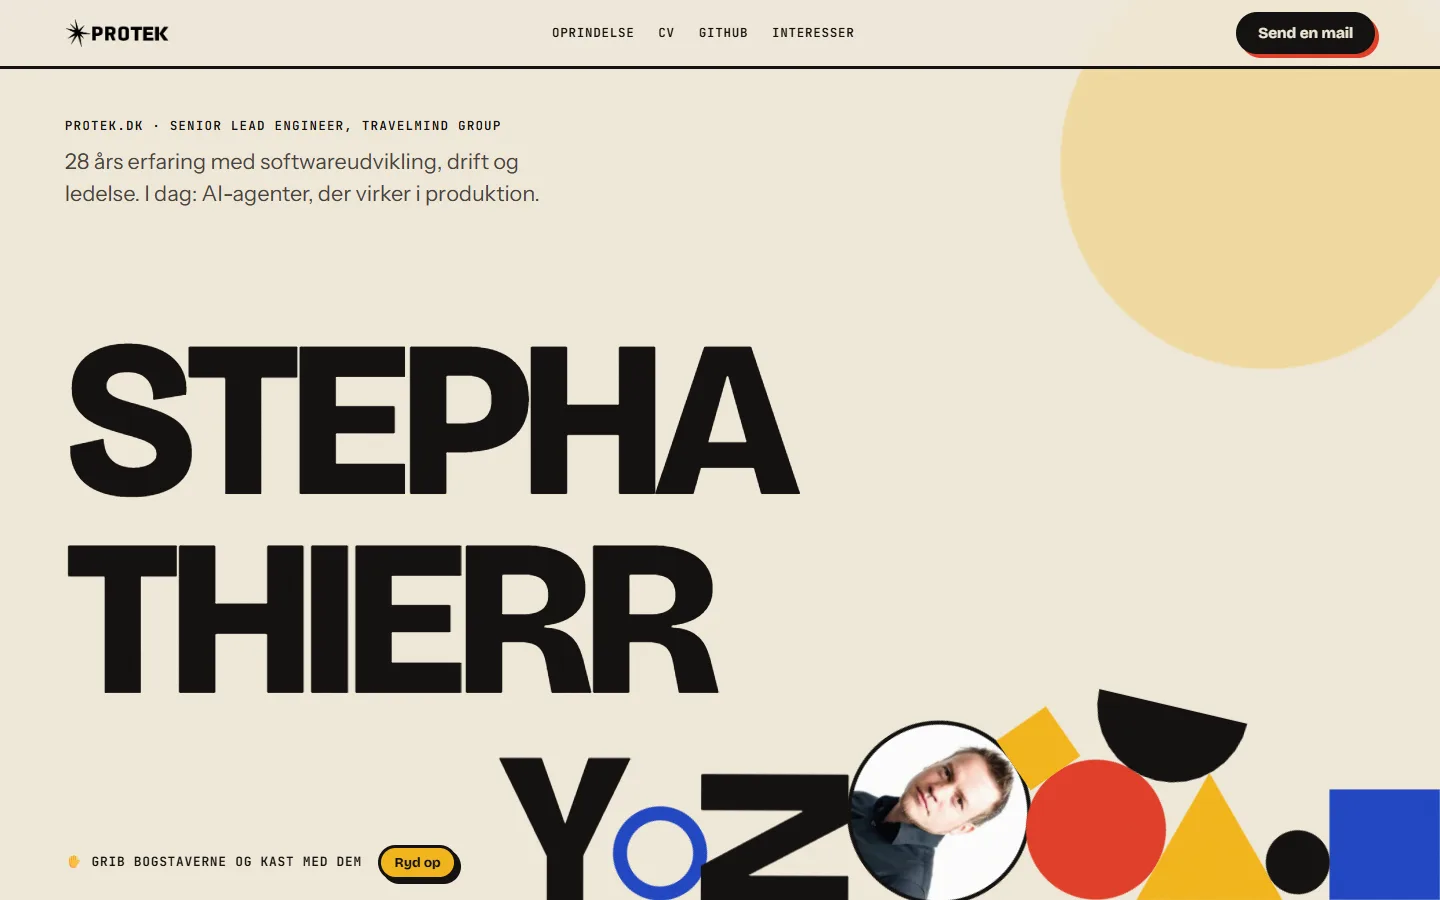
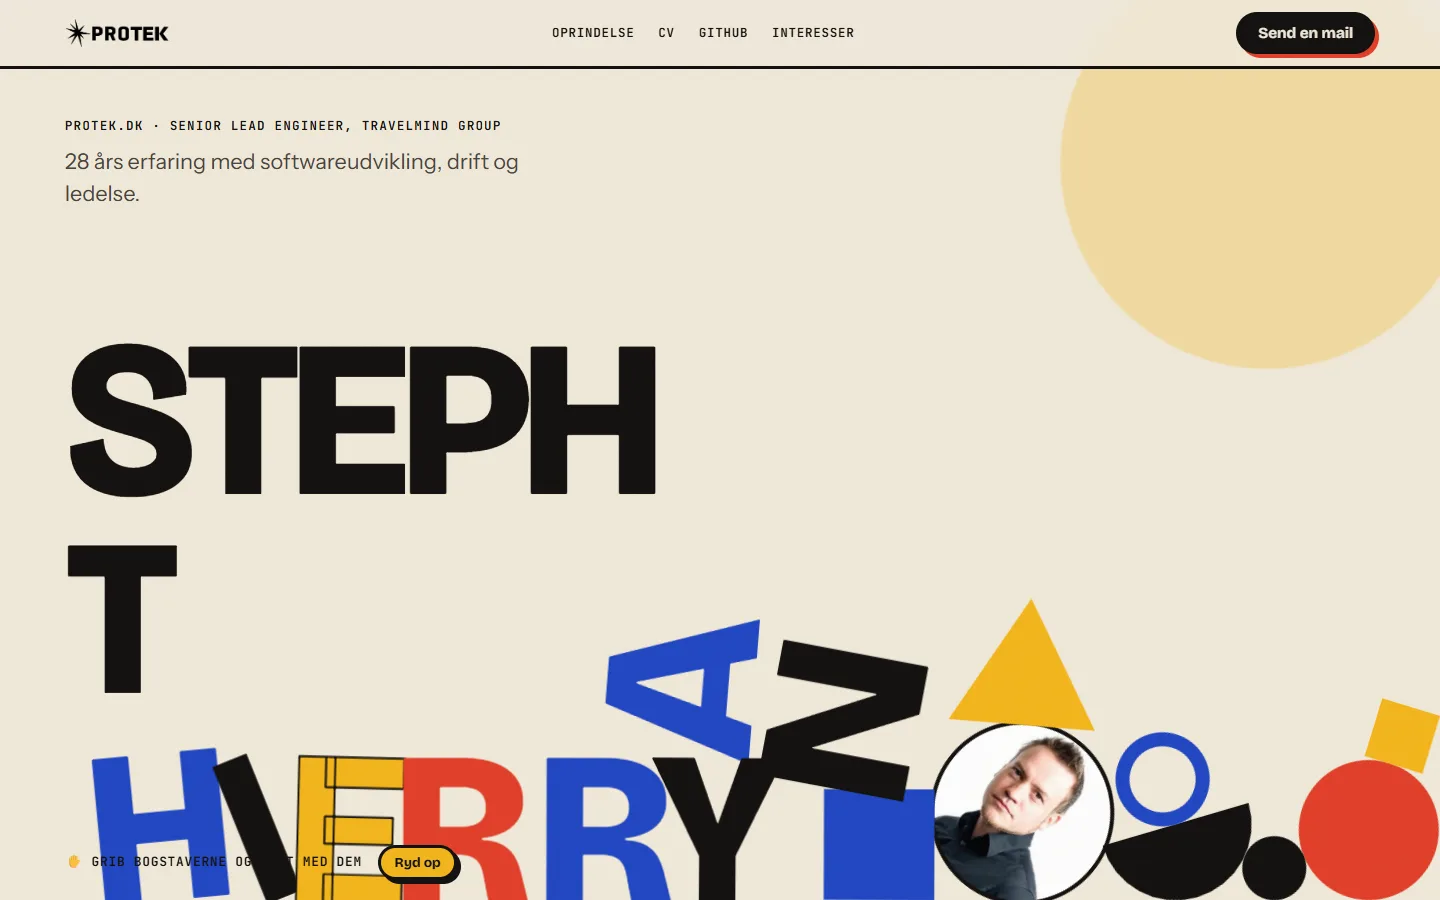
Designs: overskriften 'Underholdende designs' og nye skaermbilleder
Centreret overskrift med undertitel foer de tre sidste designs (Bauhaus,
Tidende, Ebru). Skaermbillederne er taget om, saa de viser de rettede tekster.

Changed region(s): [[0.0625, 0.5911, 1.0, 1.0], [0.4375, 0.3733, 0.5625, 0.56], [0.125, 0.1867, 0.375, 0.2489]]

diff --git a/site/src/style.css b/site/src/style.css
@@ -322,7 +322,9 @@ main { position: relative; z-index: 5; }
   backdrop-filter: blur(14px); -webkit-backdrop-filter: blur(14px);
   transform-style: preserve-3d; transition: box-shadow 0.5s var(--ease);
 }
-.design:nth-child(-n+2) { grid-column: span 3; }
+.design-grid:not(.design-grid--fun) .design { grid-column: span 3; }
+.designs__fun { display: grid; justify-items: center; gap: 0.6rem; text-align: center; margin-top: clamp(1rem, 4vh, 3rem); }
+.designs__fun p { margin: 0; font: 400 0.82rem/1.5 var(--f-mono); letter-spacing: 0.06em; color: var(--ink-soft); }
 .design > :not(.shot) { margin-inline: 0.5rem; }
 .design .shot { margin-bottom: 0.4rem; }
 .design h3 { margin: 0; font: 700 1.5rem/1.1 var(--f-display); letter-spacing: -0.01em; }
@@ -338,8 +340,8 @@ main { position: relative; z-index: 5; }
 .design--here { box-shadow: inset 0 0 0 1px rgb(124 240 194 / 0.4); }
 
 @media (max-width: 1100px) {
-  .design, .design:nth-child(-n+2) { grid-column: span 3; }
-  .design:last-child { grid-column: 2 / span 4; }
+  .design-grid .design { grid-column: span 3; }
+  .design-grid--fun .design:last-child { grid-column: 2 / span 4; }
 }
 @media (max-width: 860px) {
   .sec.designs { padding-top: 48vh; padding-bottom: 6rem; }
@@ -347,7 +349,7 @@ main { position: relative; z-index: 5; }
   .clock__row { grid-template-columns: 5.5rem minmax(0, 1fr) 3.8rem; gap: 0.7rem; }
   .origin-card { grid-template-columns: 1fr; }
   .design-grid { grid-template-columns: 1fr; }
-  .design, .design:nth-child(-n+2), .design:last-child { grid-column: auto; }
+  .design-grid .design, .design-grid--fun .design:last-child { grid-column: auto; }
 }
 
 /* Kontakt */

diff --git a/site/index.html b/site/index.html
@@ -308,6 +308,14 @@
         <p>Op til 65.536 partikler simuleret på grafikkortet. De former sig efter hver sektion: tåge, stjerne, helix, knude, prisme og @.</p>
         <ul class="tags"><li>Three.js</li><li>GPGPU</li><li>GSAP</li></ul>
       </li>
+    </ol>
+
+    <header class="designs__fun">
+      <h3 class="display display--sm" data-split>Underholdende designs</h3>
+      <p>3 designforslag med et spøjst tema</p>
+    </header>
+
+    <ol class="design-grid design-grid--fun" start="3">
       <li class="design" style="--c:#E8452C" data-tilt>
         <a class="shot" href="/designs/bauhaus/" target="_blank" rel="noopener" aria-label="Åbn Bauhaus">
           <span class="shot__bar"><i></i><i></i><i></i><span>protek.dk/designs/bauhaus</span></span>
